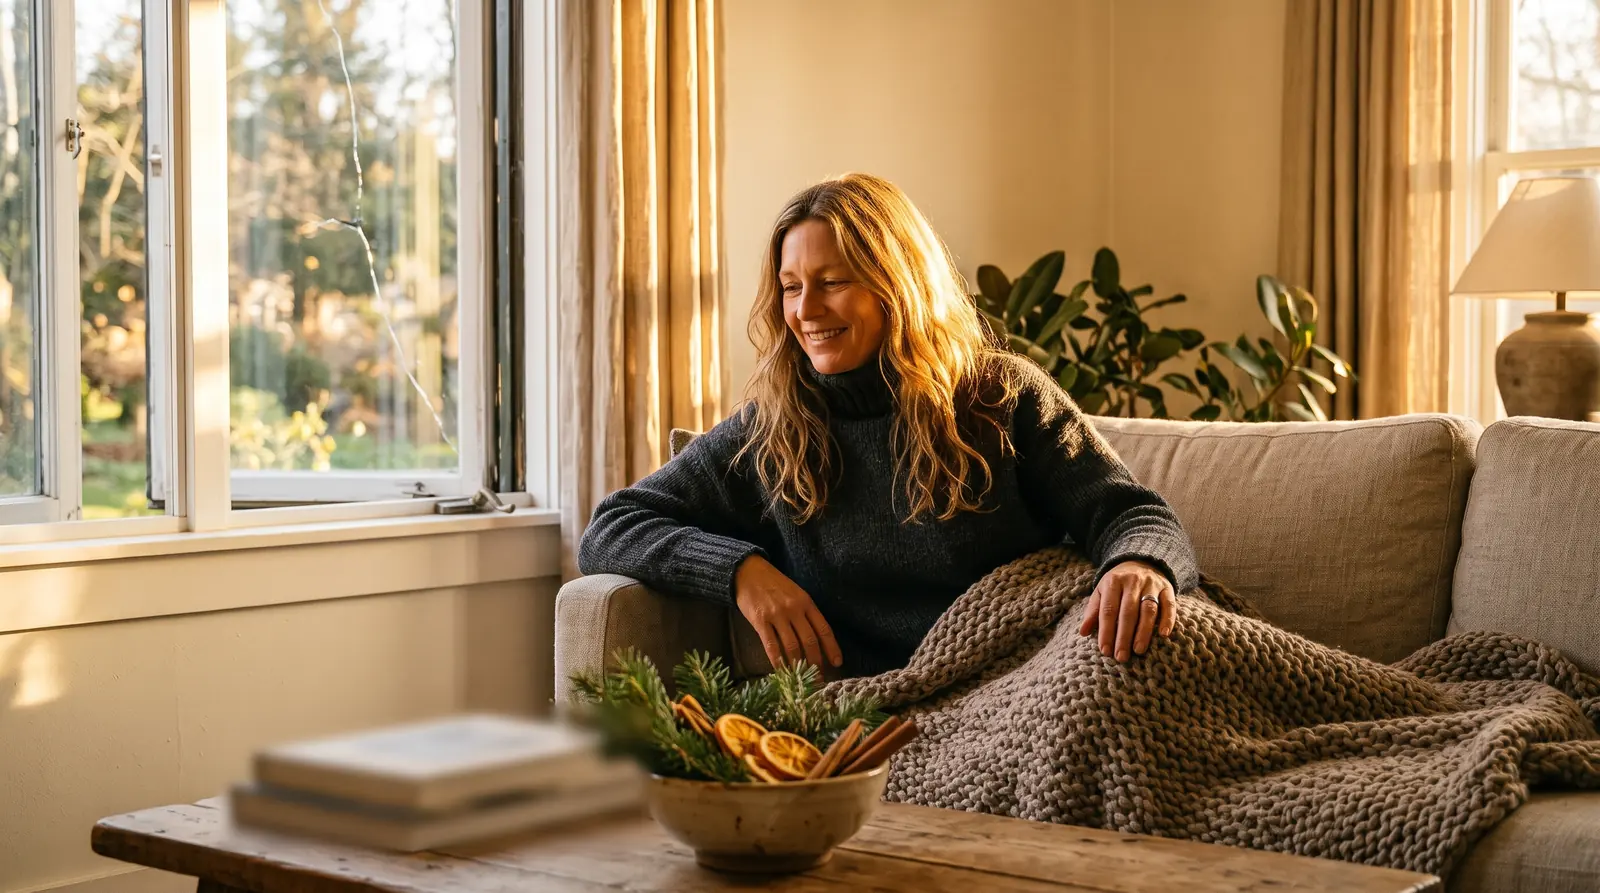
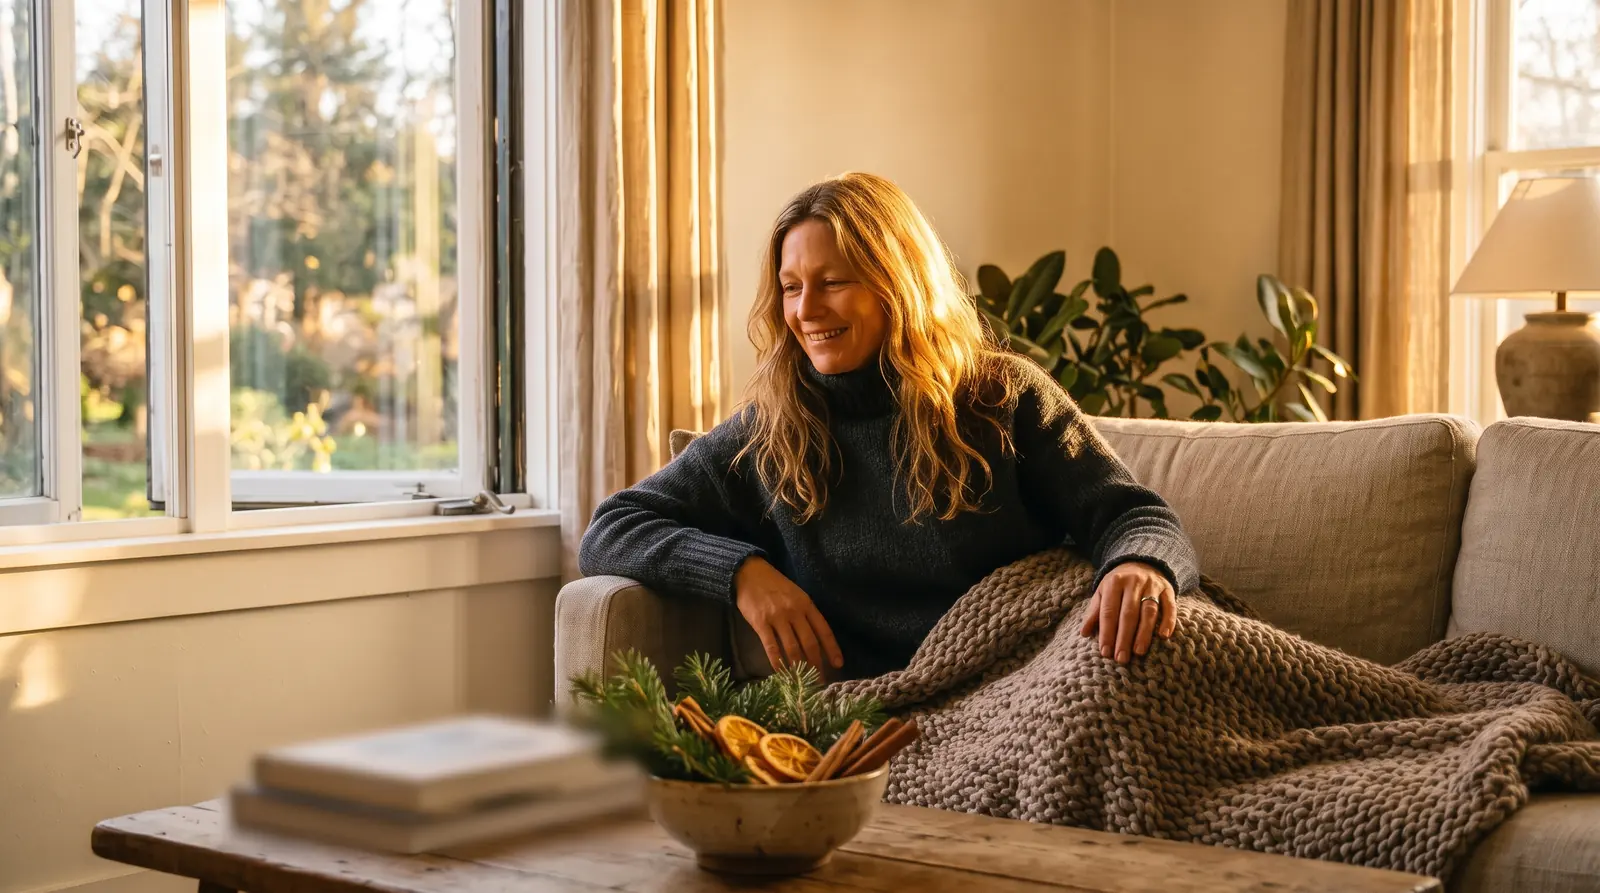
photos: are-scented-candles-bad-for-you recheck fixes

diff --git a/blog-pipeline/photos-completed/are-scented-candles-bad-for-you.md b/blog-pipeline/photos-completed/are-scented-candles-bad-for-you.md
@@ -36,3 +36,6 @@ note: "Cozy living room with heavy linen curtains and a knit throw, woman in her
 - image_url: https://scan.ismyhometoxic.com/blog-images/arescentedc-freedom-v1.webp
 - placement: final image before the closing scan CTA
 - completed: 2026-11-19T16:48:00
+
+## Recheck (Photo Claude) 2026-11-20
+Recheck: Smoke wisps removed; window glass crack removed.
